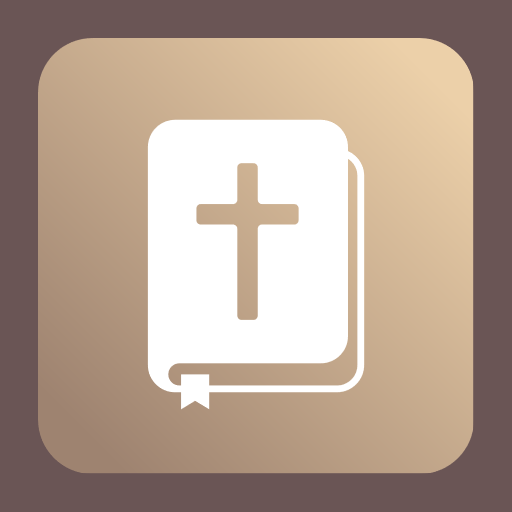
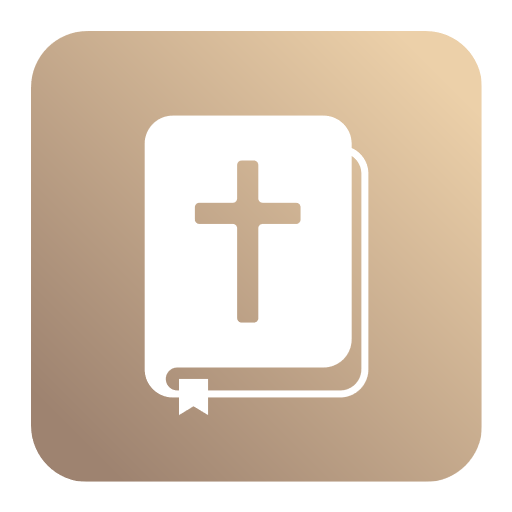
change: style changes to dark mode

diff --git a/src/components/Summary/style.css b/src/components/Summary/style.css
@@ -51,7 +51,7 @@
 
 @media (prefers-color-scheme: dark) {
     #summary .accordion-item section button {
-      border: 1px solid color-mix(in srgb, var(--color-accent) 10%, var(--color-background));
+      border: 1px solid color-mix(in srgb, var(--color-accent) 25%, var(--color-background));
       border-bottom: 1px solid color-mix(in srgb, black 5%, var(--color-background));
       border-right: 1px solid color-mix(in srgb, black 5%, var(--color-background));
     }

diff --git a/vite.config.ts b/vite.config.ts
@@ -11,9 +11,9 @@ export default defineConfig({
       includeAssets: ['favicon.ico', 'apple-touch-icon.png'],
       manifest: {
         name: "Bíblia Clean",
-        short_name: "CleanBible",
+        short_name: "Bíblia Clean",
         description: "Aplicativo clean para leitura bíblica",
-        theme_color: "#ECD0A9",
+        theme_color: "#9E8370",
         icons: [
           {
             src: "pwa-192x192.png",

diff --git a/src/index.css b/src/index.css
@@ -64,6 +64,6 @@ button {
   :root {
     --color-foreground: #F4EBDA;
     --color-background: #151009;
-    --color-radial-gradient: radial-gradient(at top left, color-mix(in srgb, var(--color-secondary) 15%, var(--color-background)), var(--color-background));
+    --color-radial-gradient: radial-gradient(at top left, color-mix(in srgb, var(--color-secondary) 50%, var(--color-background)), var(--color-background));
   }
 }

diff --git a/README.md b/README.md
@@ -6,7 +6,7 @@ Criei esse projeto porque o aplicativo que uso no celular para ler a Bíblia tem
 Eu poderia procurar por um mais simples? Com certeza, mas achei que seria mais divertido criar um do jeito que eu gostaria. :smile:
 
 ### Funcionalidades pretendidas:
-#### Essenciais:*
+#### Essenciais:
 - Ler capítulo :heavy_check_mark:
 - Avançar/retroceder capítulo (Navegação) :heavy_check_mark:
 - Escolher livro/capítulo (Índice) :heavy_check_mark:
